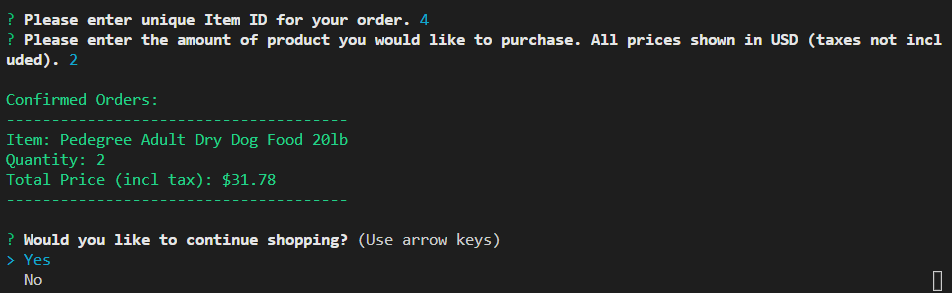
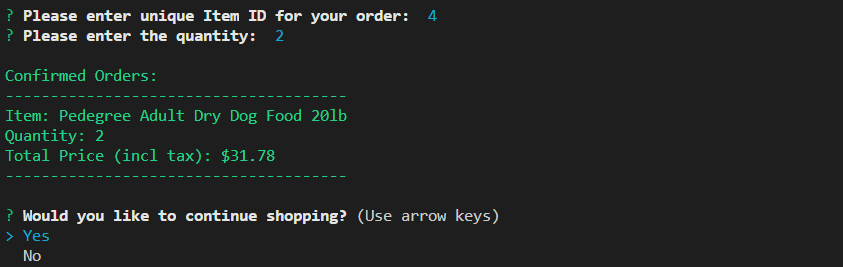
minor modifications to the syntax in JS file

diff --git a/bamazonCustomer.js b/bamazonCustomer.js
@@ -96,11 +96,11 @@ function getOrder() {
             prompt([{
                 name: "userItem",
                 type: "input",
-                message: "Please enter unique Item ID for your order."
+                message: "Please enter unique Item ID for your order: "
             }, {
                 name: "userAmount",
                 type: "input",
-                message: "Please enter the quantity."
+                message: "Please enter the quantity: "
             }]).
                 then(function (inq) {
                 connection.query("SELECT * FROM products WHERE ?", [{
